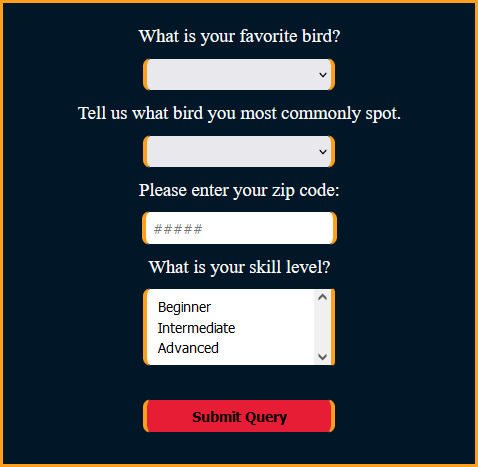
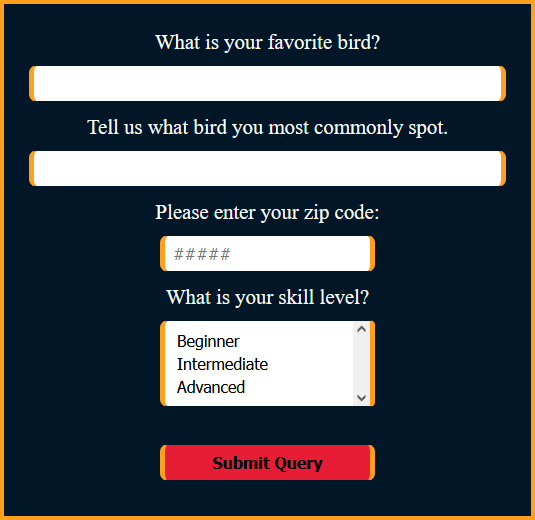
updated readme

diff --git a/README.md b/README.md
@@ -67,15 +67,13 @@ After logging in, the user can navigate to their profile using the new button in
     width=700
 />
 
-When profiles are created, a skill level of 'beginner' is automatically assigned. A user can update their favorite bird, their zip code, and their skill level at any time[^3].
+When profiles are created, a skill level of 'beginner' is automatically assigned. A user can update their favorite bird, their most commonly spotted bird, their zip code, and their skill level at any time.
 
 <img
     alt="Screenshot of profile update form. Four questions: 1) What is your favorite bird? 2) Tell us what you most commonly spot. 3) Please enter your zip code: 4) What is your skill level? (Beginner, Intermediate, Advanced)"
     src="./screenshots/update_profile_form.png"
     width=400
 />
-
-[^3]:WIP note: The back end API calculates the most common bird at the user's feeder on profile update. The front end currently includes a selection box, but it has no effect on the user's profile.
 
 ## Building a List and Reporting a Bird
 WIP - this section is currently being constructed.
